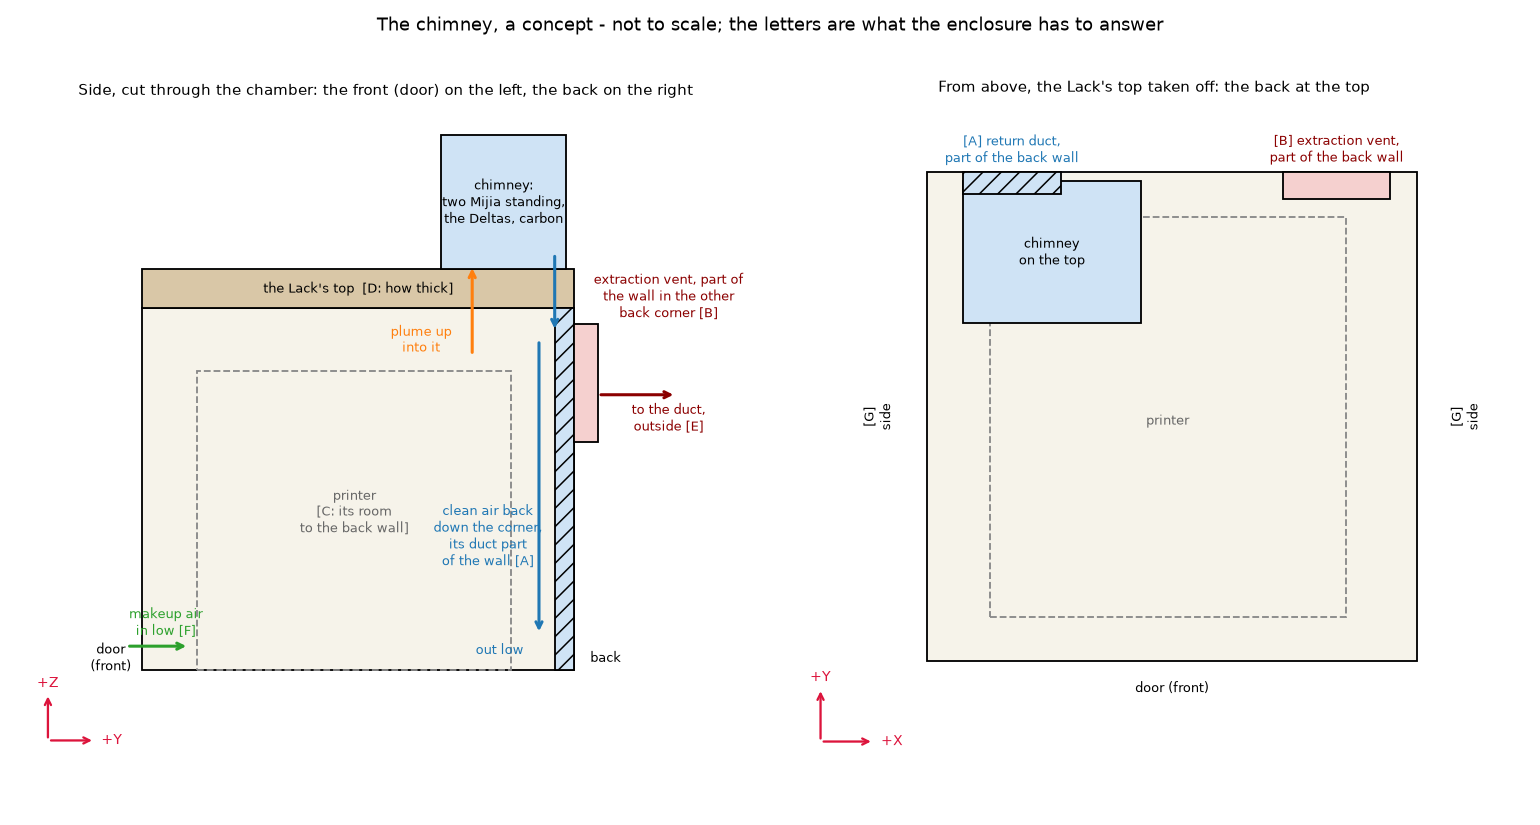
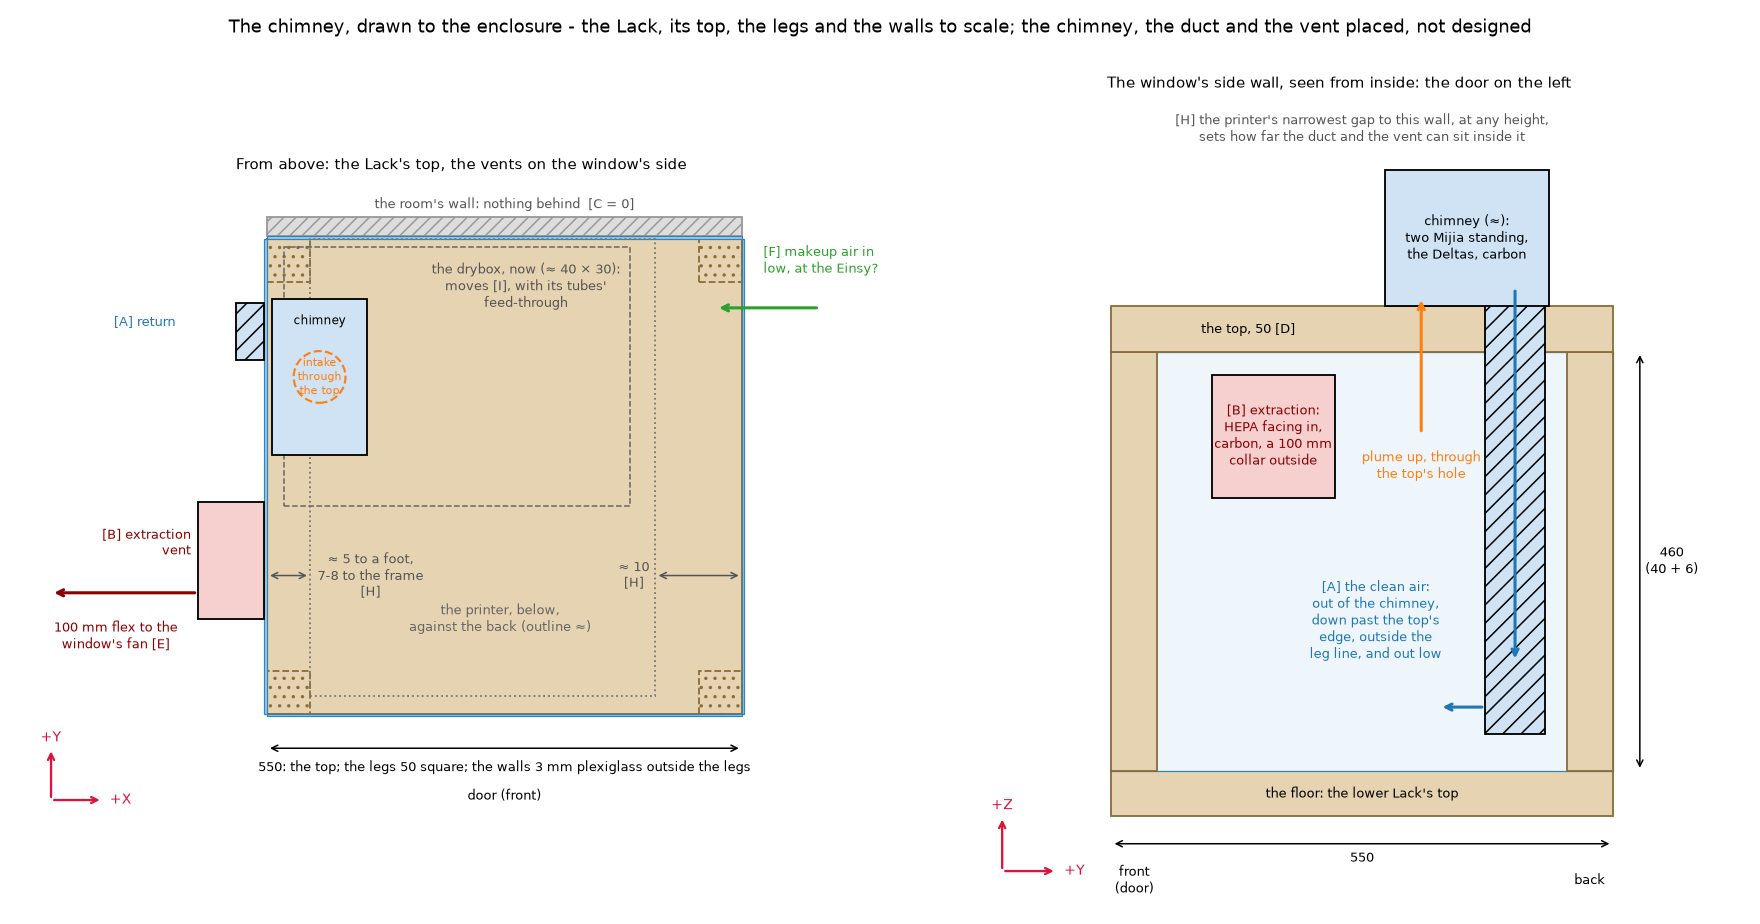
feat(figures): the chimney drawn to the enclosure, vents in a side wall
Alon, 15 Oct 2026 (Q285, T286): the return duct and the extraction's
vent go into a side wall, not the back: "No clearance behind". His
measures: the Lack's top 50 mm thick (a caliper, 50.07), the walls
3 mm plexiglass; from his photos, the printer's gaps to the side walls
(about 5 to 8 cm on one, about 10 on the other, still to confirm), the
window's fan to the left, the drybox and the electronics on the top.

The figure is now to scale where measured: the Lack, its legs, the
walls and the chamber's 460 mm. The chimney stands at the top's
back-left corner, the return runs down the window's wall outside the
leg line and past the top's edge, and the vent stands high in the same
wall. The scrubber page carries the table of values and their sources;
the airflow page's build order follows.

ruff and reuse lint clean; the sizing check 3 of 3, controls 3 of 3.

diff --git a/scripts/figures/chimney-concept.py b/scripts/figures/chimney-concept.py
@@ -5,14 +5,14 @@
 # requires-python = ">=3.11"
 # dependencies = ["matplotlib"]
 # ///
-"""The chimney's concept, before anything is drawn to the enclosure's measurements (Alon, 15 Oct 2026: D282 a,
-D283 a): the scrubber on the Lack's top, its clean air back down a back corner, the extraction's vent in the wall.
-From the repository's root:
+"""The chimney's layout, drawn to the enclosure (Alon, 15 Oct 2026: D282 a, D283 a, Q285, T286): the scrubber on the
+Lack's top, its clean air back down the side wall, the extraction's vent in the same wall. From the repository's root:
 
   uv run scripts/figures/chimney-concept.py       writes docs/diagrams/chimney/concept.png
 
-Not to scale. The chamber is the 55 x 55 cm, 46 cm tall one; everything else is placed, not measured: the
-lettered labels are the measurements and choices to be confirmed against the enclosure itself.
+To scale where measured (the Lack, its top, the legs, the sheets, the chamber's height); the chimney, the duct, the
+vent and what stands on the top are placed, not designed, and the printer's gaps are read off photos. The lettered
+labels are what is still open; docs/bentobox-scrubber.md has the table of values and where each came from.
 """
 from pathlib import Path
 
@@ -25,89 +25,128 @@ import matplotlib.pyplot as plt
 ROOT = Path(__file__).resolve().parents[2]
 OUT = ROOT / "docs" / "diagrams" / "chimney" / "concept.png"
 
-CH = (550, 550, 460)        # the chamber inside: X across, Y front to back, Z up (mm)
-TOP = 50                    # the Lack's top
-CHIM = (40, 380, 200, 160)  # the chimney on the top: x, y, across, deep
-CHIM_H = 170
-RET = (40, 110)             # the return duct in the back wall: x, across
-VENT = (400, 120, 290, 150) # the extraction's vent in the back wall: x, across, z, tall
+# measured or stated (mm)
+LACK = 550          # the top, square
+TOP = 50            # its thickness: 50.07 by caliper (T286)
+LEG = 50            # the legs, square
+SHEET = 3           # the walls: 3 mm plexiglass (T286)
+CH_H = 460          # the chamber: 40 cm under the top and 6 more (Q157)
+# read off photos, to confirm (Q288)
+GAP_NEAR = (50, 75)  # one wall to a foot, and to the frame
+GAP_FAR = 100        # the other wall
+# placed, not designed
+CHIM = (6, 300, 110, 180, 150)    # the chimney: x, y, across, along, tall
+RET = (410, 66, 33)               # the return duct: y, along the wall, deep outside it
+VENT = (110, 135, 77, 300, 135)   # the extraction's vent: y, along, deep outside, z, tall
+DRYBOX_NOW = (20, 240, 400, 300)  # the drybox where it stands now: x, y, across, deep (from the photos)
+
+WOOD, WOOD_EDGE, SHEET_C = "#e6d3b1", "#8a6d3b", "#9ecae1"
+CLEAN, VENT_C = "#cfe3f5", "#f5d0cf"
 
 
 def arrows(ax, origin, a, b, size=60):
     """The view's two axes, as arrows from origin: a and b are their names, right and up."""
     x, y = origin
-    ax.annotate("", (x + size, y), (x, y), arrowprops={"arrowstyle": "->", "color": "crimson", "lw": 1.5})
-    ax.annotate("", (x, y + size), (x, y), arrowprops={"arrowstyle": "->", "color": "crimson", "lw": 1.5})
+    for dx, dy in ((size, 0), (0, size)):
+        ax.annotate("", (x + dx, y + dy), (x, y), arrowprops={"arrowstyle": "->", "color": "crimson", "lw": 1.5})
     ax.text(x + size + 8, y, a, color="crimson", va="center", fontsize=9)
     ax.text(x, y + size + 8, b, color="crimson", ha="center", fontsize=9)
 
 
 def box(ax, x, y, w, h, fc, ec="black", **kw):
-    ax.add_patch(mp.Rectangle((x, y), w, h, facecolor=fc, edgecolor=ec, lw=1.2, **kw))
+    ax.add_patch(mp.Rectangle((x, y), w, h, facecolor=fc, edgecolor=ec, lw=kw.pop("lw", 1.2), **kw))
 
 
 def label(ax, x, y, text, **kw):
-    ax.text(x, y, text, fontsize=8.5, ha="center", va="center", **kw)
+    ax.text(x, y, text, fontsize=kw.pop("fontsize", 8.5), ha=kw.pop("ha", "center"), va="center", **kw)
 
 
-fig, (side, top) = plt.subplots(1, 2, figsize=(14, 7.5))
+def dim(ax, a, b, text, color="black", **kw):
+    """A dimension line from a to b, its text beside the middle."""
+    ax.annotate("", b, a, arrowprops={"arrowstyle": "<->", "color": color, "lw": 1})
+    label(ax, (a[0] + b[0]) / 2 + kw.pop("dx", 0), (a[1] + b[1]) / 2 + kw.pop("dy", 0), text, color=color, **kw)
 
-# ---- side section, looking along -X: Y to the right (front to back), Z up
-w, d, h = CH
-box(side, 0, 0, d, h, "#f6f3ea")
-box(side, 0, h, d, TOP, "#d9c7a7")
-label(side, d / 2, h + TOP / 2, "the Lack's top  [D: how thick]")
-box(side, 70, 0, 400, 380, "none", ec="#888", ls="--")
-label(side, 270, 200, "printer\n[C: its room\nto the back wall]", color="#666")
-cx, cy, cw, cd = CHIM
-box(side, cy, h + TOP, cd, CHIM_H, "#cfe3f5")
-label(side, cy + cd / 2, h + TOP + CHIM_H / 2, "chimney:\ntwo Mijia standing,\nthe Deltas, carbon")
-side.annotate("", (cy + 40, h + TOP + 5), (cy + 40, h - 60),
+
+fig, (plan, wall) = plt.subplots(1, 2, figsize=(16, 8.4), gridspec_kw={"width_ratios": [1.1, 1]})
+
+# ---- plan: from above, X right (left to right from the door), Y up (front to back)
+box(plan, 0, LACK + SHEET, LACK, 22, "#ddd", ec="#999", hatch="///")
+label(plan, LACK / 2, LACK + 40, "the room's wall: nothing behind  [C = 0]", color="#555")
+box(plan, 0, 0, LACK, LACK, WOOD, ec=WOOD_EDGE)
+for x, y in ((0, 0), (LACK - LEG, 0), (0, LACK - LEG), (LACK - LEG, LACK - LEG)):
+    box(plan, x, y, LEG, LEG, "none", ec=WOOD_EDGE, ls="--", hatch="..")
+for x, y, w, h in ((-SHEET, 0, SHEET, LACK), (LACK, 0, SHEET, LACK), (0, LACK, LACK, SHEET), (0, -SHEET, LACK, SHEET)):
+    box(plan, x, y, w, h, SHEET_C, ec="#3182bd", lw=0.8)
+box(plan, GAP_NEAR[0], 20, LACK - GAP_NEAR[0] - GAP_FAR, LACK - 20, "none", ec="#777", ls=":")
+label(plan, 270, 110, "the printer, below,\nagainst the back (outline ≈)", color="#666")
+dim(plan, (0, 160), (GAP_NEAR[0], 160), "≈ 5 to a foot,\n7-8 to the frame\n[H]", color="#555", dx=95, dy=0)
+dim(plan, (LACK - GAP_FAR, 160), (LACK, 160), "≈ 10\n[H]", color="#555", dx=-75)
+x, y, w, h = DRYBOX_NOW
+box(plan, x, y, w, h, "none", ec="#666", ls="--", lw=1)
+label(plan, x + w - 120, y + h - 45, "the drybox, now (≈ 40 × 30):\nmoves [I], with its tubes'\nfeed-through", color="#555")
+cx, cy, cw, cl, ch = CHIM
+box(plan, cx, cy, cw, cl, CLEAN)
+plan.add_patch(mp.Circle((cx + cw / 2, cy + cl / 2), 30, fill=False, ls="--", ec="tab:orange", lw=1.4))
+label(plan, cx + cw / 2, cy + cl - 25, "chimney", fontsize=8)
+label(plan, cx + cw / 2, cy + cl / 2, "intake\nthrough\nthe top", color="tab:orange", fontsize=7.5)
+ry, rl, rd = RET
+box(plan, -SHEET - rd, ry, rd, rl, CLEAN, hatch="//")
+vy, vl, vd, vz, vh = VENT
+box(plan, -SHEET - vd, vy, vd, vl, VENT_C)
+label(plan, -SHEET - rd - 70, ry + rl / 2 + 10, "[A] return", color="tab:blue", ha="right")
+label(plan, -SHEET - vd - 8, vy + vl / 2 + 20, "[B] extraction\nvent", color="darkred", ha="right")
+plan.annotate("", (-SHEET - vd - 170, vy + 30), (-SHEET - vd, vy + 30),
+              arrowprops={"arrowstyle": "->", "color": "darkred", "lw": 2})
+label(plan, -SHEET - vd - 95, vy - 20, "100 mm flex to the\nwindow's fan [E]", color="darkred")
+plan.annotate("", (LACK - 30, 470), (LACK + 90, 470), arrowprops={"arrowstyle": "->", "color": "tab:green", "lw": 2})
+label(plan, LACK + 25, 525, "[F] makeup air in\nlow, at the Einsy?", color="tab:green", ha="left")
+dim(plan, (0, -40), (LACK, -40), "550: the top; the legs 50 square; the walls 3 mm plexiglass outside the legs", dy=-22)
+label(plan, LACK / 2, -95, "door (front)")
+arrows(plan, (-250, -100), "+X", "+Y")
+plan.set_xlim(-290, LACK + 190)
+plan.set_ylim(-130, LACK + 70)
+plan.set_aspect("equal")
+plan.axis("off")
+plan.set_title("From above: the Lack's top, the vents on the window's side", fontsize=10)
+
+# ---- the window's side wall, seen from inside the chamber: Y right (front to back), Z up
+box(wall, 0, -TOP, LACK, TOP, WOOD, ec=WOOD_EDGE)
+label(wall, LACK / 2, -TOP / 2, "the floor: the lower Lack's top")
+box(wall, 0, 0, LACK, CH_H, "#eef6fb", ec="#3182bd", lw=0.8)
+for y in (0, LACK - LEG):
+    box(wall, y, 0, LEG, CH_H, WOOD, ec=WOOD_EDGE)
+box(wall, 0, CH_H, LACK, TOP, WOOD, ec=WOOD_EDGE)
+label(wall, 150, CH_H + TOP / 2, "the top, 50 [D]")
+label(wall, cy + cl / 2, CH_H + TOP + ch / 2, "chimney (≈):\ntwo Mijia standing,\nthe Deltas, carbon")
+wall.annotate("", (cy + 40, CH_H + TOP + 10), (cy + 40, CH_H - 90),
               arrowprops={"arrowstyle": "->", "color": "tab:orange", "lw": 2})
-label(side, cy - 25, h - 40, "plume up\ninto it", color="tab:orange")
-box(side, d - 25, 0, 25, h, "#cfe3f5", hatch="//")
-side.annotate("", (cy + cd - 15, h - 30), (cy + cd - 15, h + TOP + 20),
+label(wall, cy + 40, CH_H - 125, "plume up, through\nthe top's hole", color="tab:orange")
+box(wall, ry, 40, rl, CH_H + TOP + 30 - 40, CLEAN, hatch="//")
+box(wall, cy, CH_H + TOP, cl, ch, CLEAN)
+wall.annotate("", (ry + rl / 2, 120), (ry + rl / 2, CH_H + TOP + 20),
               arrowprops={"arrowstyle": "->", "color": "tab:blue", "lw": 2})
-side.annotate("", (d - 45, 45), (d - 45, h - 40), arrowprops={"arrowstyle": "->", "color": "tab:blue", "lw": 2})
-label(side, d - 110, 170, "clean air back\ndown the corner,\nits duct part\nof the wall [A]", color="tab:blue")
-label(side, d - 95, 25, "out low", color="tab:blue")
-box(side, d, VENT[2], 30, VENT[3], "#f5d0cf")
-side.annotate("", (d + 130, VENT[2] + 60), (d + 30, VENT[2] + 60), arrowprops={"arrowstyle": "->", "color": "darkred", "lw": 2})
-label(side, d + 120, VENT[2] + VENT[3] + 35, "extraction vent, part of\nthe wall in the other\nback corner [B]", color="darkred")
-label(side, d + 120, VENT[2] + 30, "to the duct,\noutside [E]", color="darkred")
-label(side, -40, 15, "door\n(front)")
-label(side, d + 40, 15, "back")
-side.annotate("", (60, 30), (-20, 30), arrowprops={"arrowstyle": "->", "color": "tab:green", "lw": 2})
-label(side, 30, 60, "makeup air\nin low [F]", color="tab:green")
-arrows(side, (-120, -90), "+Y", "+Z")
-side.set_xlim(-160, d + 230)
-side.set_ylim(-110, h + TOP + CHIM_H + 40)
-side.set_aspect("equal")
-side.axis("off")
-side.set_title("Side, cut through the chamber: the front (door) on the left, the back on the right", fontsize=10)
+wall.annotate("", (ry - 50, 70), (ry, 70), arrowprops={"arrowstyle": "->", "color": "tab:blue", "lw": 2})
+label(wall, ry - 120, 165, "[A] the clean air:\nout of the chimney,\ndown past the top's\nedge, outside the\nleg line, and out low",
+      color="tab:blue")
+box(wall, vy, vz, vl, vh, VENT_C)
+label(wall, vy + vl / 2, vz + vh / 2, "[B] extraction:\nHEPA facing in,\ncarbon, a 100 mm\ncollar outside", color="darkred")
+dim(wall, (LACK + 30, 0), (LACK + 30, CH_H), "460\n(40 + 6)", dx=35)
+dim(wall, (0, -TOP - 30), (LACK, -TOP - 30), "550", dy=-16)
+label(wall, 25, -TOP - 70, "front\n(door)")
+label(wall, LACK - 25, -TOP - 70, "back")
+label(wall, LACK / 2, CH_H + TOP + ch + 45,
+      "[H] the printer's narrowest gap to this wall, at any height,\nsets how far the duct and the vent can sit inside it",
+      color="#555")
+arrows(wall, (-120, -110), "+Y", "+Z")
+wall.set_xlim(-160, LACK + 110)
+wall.set_ylim(-150, CH_H + TOP + ch + 80)
+wall.set_aspect("equal")
+wall.axis("off")
+wall.set_title("The window's side wall, seen from inside: the door on the left", fontsize=10)
 
-# ---- top view: X right, Y up (the back at the top)
-box(top, 0, 0, w, d, "#f6f3ea")
-box(top, 70, 50, 400, 450, "none", ec="#888", ls="--")
-label(top, 270, 270, "printer", color="#666")
-box(top, cx, cy, cw, cd, "#cfe3f5")
-label(top, cx + cw / 2, cy + cd / 2, "chimney\non the top")
-box(top, RET[0], d - 25, RET[1], 25, "#cfe3f5", hatch="//")
-label(top, RET[0] + RET[1] / 2, d + 25, "[A] return duct,\npart of the back wall", color="tab:blue")
-box(top, VENT[0], d - 30, VENT[1], 30, "#f5d0cf")
-label(top, VENT[0] + VENT[1] / 2, d + 25, "[B] extraction vent,\npart of the back wall", color="darkred")
-label(top, w / 2, -30, "door (front)")
-label(top, -55, d / 2, "[G]\nside", rotation=90)
-label(top, w + 55, d / 2, "[G]\nside", rotation=90)
-arrows(top, (-120, -90), "+X", "+Y")
-top.set_xlim(-160, w + 120)
-top.set_ylim(-110, d + 80)
-top.set_aspect("equal")
-top.axis("off")
-top.set_title("From above, the Lack's top taken off: the back at the top", fontsize=10)
-
-fig.suptitle("The chimney, a concept - not to scale; the letters are what the enclosure has to answer", fontsize=12)
-fig.tight_layout()
+fig.suptitle("The chimney, drawn to the enclosure - the Lack, its top, the legs and the walls to scale; "
+             "the chimney, the duct and the vent placed, not designed", fontsize=11.5)
+fig.tight_layout(rect=(0, 0, 1, 0.95))
 OUT.parent.mkdir(parents=True, exist_ok=True)
 fig.savefig(OUT, dpi=110)
 print("wrote", OUT.relative_to(ROOT))

diff --git a/docs/bentobox-scrubber.md b/docs/bentobox-scrubber.md
@@ -3,7 +3,7 @@
 > **Not to be built as drawn here** (Alon, 15 Oct 2026: D282 a). The scrubber becomes a chimney on the Lack's
 > top, outside the chamber: two of the bought Mijia cartridges standing as its two long walls, for about four
 > times this box's air with the extraction's (D280 a, D283 a; see *Four times the air* and *Where it stands*).
-> Its clean air returns down a back corner, its duct and the extraction's vent built into part of the wall, to
+> Its clean air returns down a side wall, its duct and the extraction's vent built into part of that wall, to
 > spend less heat and room. The base, the tray and the sensor sample here stop; the two Deltas' fan section, the
 > sealed joints and the outlet sensors' mounts carry over into the new box. The rest of this page is the remix as
 > it was drawn, and the analysis the chimney is sized from.
@@ -977,23 +977,46 @@ Alon, 15 Oct 2026 (Q281): it could stand outside the enclosure - under it as a p
 chimney, with the extraction's vent and duct in a back corner.
 
 - **On top, as a chimney**, is the better of the two. Its intake is the chamber's ceiling, where the print's hot
-  plume rises; its clean air goes back down a duct in a back corner to the floor, and crosses the whole chamber
+  plume rises; its clean air goes back down a duct in a side wall to the floor, and crosses the whole chamber
   on its way up again. The extraction's box (D278) stands beside it through the same top, its duct out of the
-  other back corner. Filters change from above with the door shut, and the chamber's floor stays the printer's.
+  same wall. Filters change from above with the door shut, and the chamber's floor stays the printer's.
 - **Under it, as a platform**, the printer stands on the box and shakes it; its intake is the chamber's floor,
   where strings and dust fall and the plume never reaches; and it sits by the electronics bay, where the
   makeup air is to come in (see [chamber-airflow.md](chamber-airflow.md)).
 - **Either way its walls are outside**, and lose the chamber's heat: about 0.2 m² of thin printed wall at 20 °C
   over the room loses some 20 to 30 W, about what 1 L/s of extraction costs, unless its walls are doubled or
-  lined. A return duct kept inside the chamber, down its back corner, loses nothing more.
+  lined. A return duct built into the wall, in place of the sheet, loses little more than the sheet did.
 - **The Lack's top takes the holes**: the chimney's intake and its return, and the extraction's.
 
 **Chosen** (Alon, 15 Oct 2026: D283 a): on top, as a chimney. And in his words, *"we can have the vent replace
-part of a wall"*, to limit the heat lost and the room it takes. Drawn below as a concept, not to scale, by
-[`scripts/figures/chimney-concept.py`](../scripts/figures/chimney-concept.py): the lettered labels are what the
-enclosure itself has to answer before anything is drawn to it.
+part of a wall"*, to limit the heat lost and the room it takes: the return duct and the extraction's vent are
+both built into a wall (Q285). **A side wall, not the back**: *"No clearance behind"*; the printer reaches the
+enclosure's back, and the enclosure stands against the room's wall.
 
-![The chimney's concept: from the side, the chimney on the Lack's top over the back, the print's plume rising into it, its clean air back down a duct that is part of the back wall in one back corner and out low; the extraction's vent part of the wall in the other back corner, to the duct outside; the makeup air in low at the front. From above, the chimney over one back corner and the vent in the other](diagrams/chimney/concept.png)
+| What | Value | From |
+|---|---|---|
+| The Lack's top [D] | 550 × 550 mm, 50 thick | a caliper: 50.07 (Alon, 15 Oct 2026: T286) |
+| The legs | 50 mm square, one in each corner | the Lack's |
+| The walls [G] | 3 mm plexiglass sheets, outside the legs | Alon (T286) |
+| The chamber | 460 mm tall: the 400 under the top and 60 more | Alon (9 Oct 2026: Q157) |
+| Behind [C] | nothing: the printer reaches the back wall | Alon (Q285) |
+| The printer to the side walls [H] | about 50 to a foot and 70-80 to its frame on one side, about 100 on the other | read off photos: which side is which, and the narrowest gap at any height, are open |
+| The duct outside [E] | 100 mm flex to the 120 mm fan already in the window, on the enclosure's left | Alon's photos (T286) |
+| On the top [I] | the drybox, about 40 × 30 cm with its tubes down through the top, and the electronics beside it; they can move | Alon (T286) |
+| The makeup inlet [F] | low, at the Einsy, by [chamber-airflow.md](chamber-airflow.md) | not confirmed |
+
+- **[A] the return** runs in the wall's plane, outside the leg line, so it takes no room from the chamber. It
+  rises past the top's 50 mm edge into the chimney's side, so only the chimney's intake goes through the top.
+- **[B] the extraction's vent** stands in the same wall, high and forward of the return: the HEPA facing the
+  chamber, the carbon behind it, a 100 mm collar outside for the flex to the window's fan.
+- **The window's side is drawn**, the left: the shortest run for [B]'s flex. The chimney then takes the top's
+  back-left corner, where the drybox stands now. Which side is still open (D287, 15 Oct 2026).
+
+Drawn to the enclosure by [`scripts/figures/chimney-concept.py`](../scripts/figures/chimney-concept.py): the
+Lack, its top, the legs and the walls to scale; the chimney, the duct and the vent placed, not designed. The
+lettered labels are what is still open.
+
+![The chimney drawn to the enclosure. From above: the 550 mm Lack top with a leg in each corner and the plexiglass walls outside them, the room's wall behind; the chimney at the top's back-left corner where the drybox stands now; the return duct and the extraction's vent outside the left wall, the vent's flex out to the window's fan; the makeup air in at the right, at the Einsy; the printer's gaps to the side walls, about 5 to 8 cm and about 10. From inside, the left wall: the chamber 460 tall between the floor and the 50 mm top, the plume rising through the top into the chimney, the return duct coming down past the top's edge near the back leg and out low, and the extraction's vent high toward the front](diagrams/chimney/concept.png)
 
 ## How long the carbon lasts
 

diff --git a/scripts/README.md b/scripts/README.md
@@ -9,5 +9,5 @@ LunchBox's scripts stay under [`archive/lunchbox/`](../archive/lunchbox/).
 |---|---|
 | `checks/` | `bentobox-checks.py`: the BentoBox remix's fit checks, each with a positive control, and its pictures (`figures`); exits non-zero on a failure |
 | `analysis/` | `carbon-life.py`: how many print hours the carbon lasts, from its isotherm and the fumes' rates; `scrubber-sizing.py`: how large the HEPA's face and the carbon's bed must be for a flow, at each fan pressure |
-| `figures/` | `bentobox-circuit.py`: the bay's circuit, drawn into `docs/diagrams/bentobox/`; `chimney-concept.py`: the chimney's concept, into `docs/diagrams/chimney/` |
+| `figures/` | `bentobox-circuit.py`: the bay's circuit, drawn into `docs/diagrams/bentobox/`; `chimney-concept.py`: the chimney drawn to the enclosure, into `docs/diagrams/chimney/` |
 | `tools/` | `bentobox-print.sh`: every part built, checked and sliced; `bentobox-auto-stl.py`: the BentoBox Auto's STLs from its STEP; `chamber-log.py`, `chamber-serial-log.py`: the chamber sensor's readings logged from MQTT or its serial port |

diff --git a/docs/chamber-airflow.md b/docs/chamber-airflow.md
@@ -391,7 +391,7 @@ condition it exists for.
    heater is ever needed — answer it before buying one.
 3. **Build the SCRUBBER** — ⚠ **since 15 Oct 2026 a chimney on the Lack's top, not the BentoBox remix inside**
    (D282 a, D283 a): two bought Mijia cartridges standing as its long walls, the carbon pellets, the Deltas'
-   fan section and the remix's sealed joints, its return down a back corner built into part of the wall
+   fan section and the remix's sealed joints, its return down a side wall, built into part of it
    ([bentobox-scrubber.md](bentobox-scrubber.md#where-it-stands-outside-the-chamber)). Not drawn yet.
    It was the BentoBox remix (the
    Auto's base and fan section, the carbon-dust section, the carbon housing with the C-MAG, the HEPA holder
